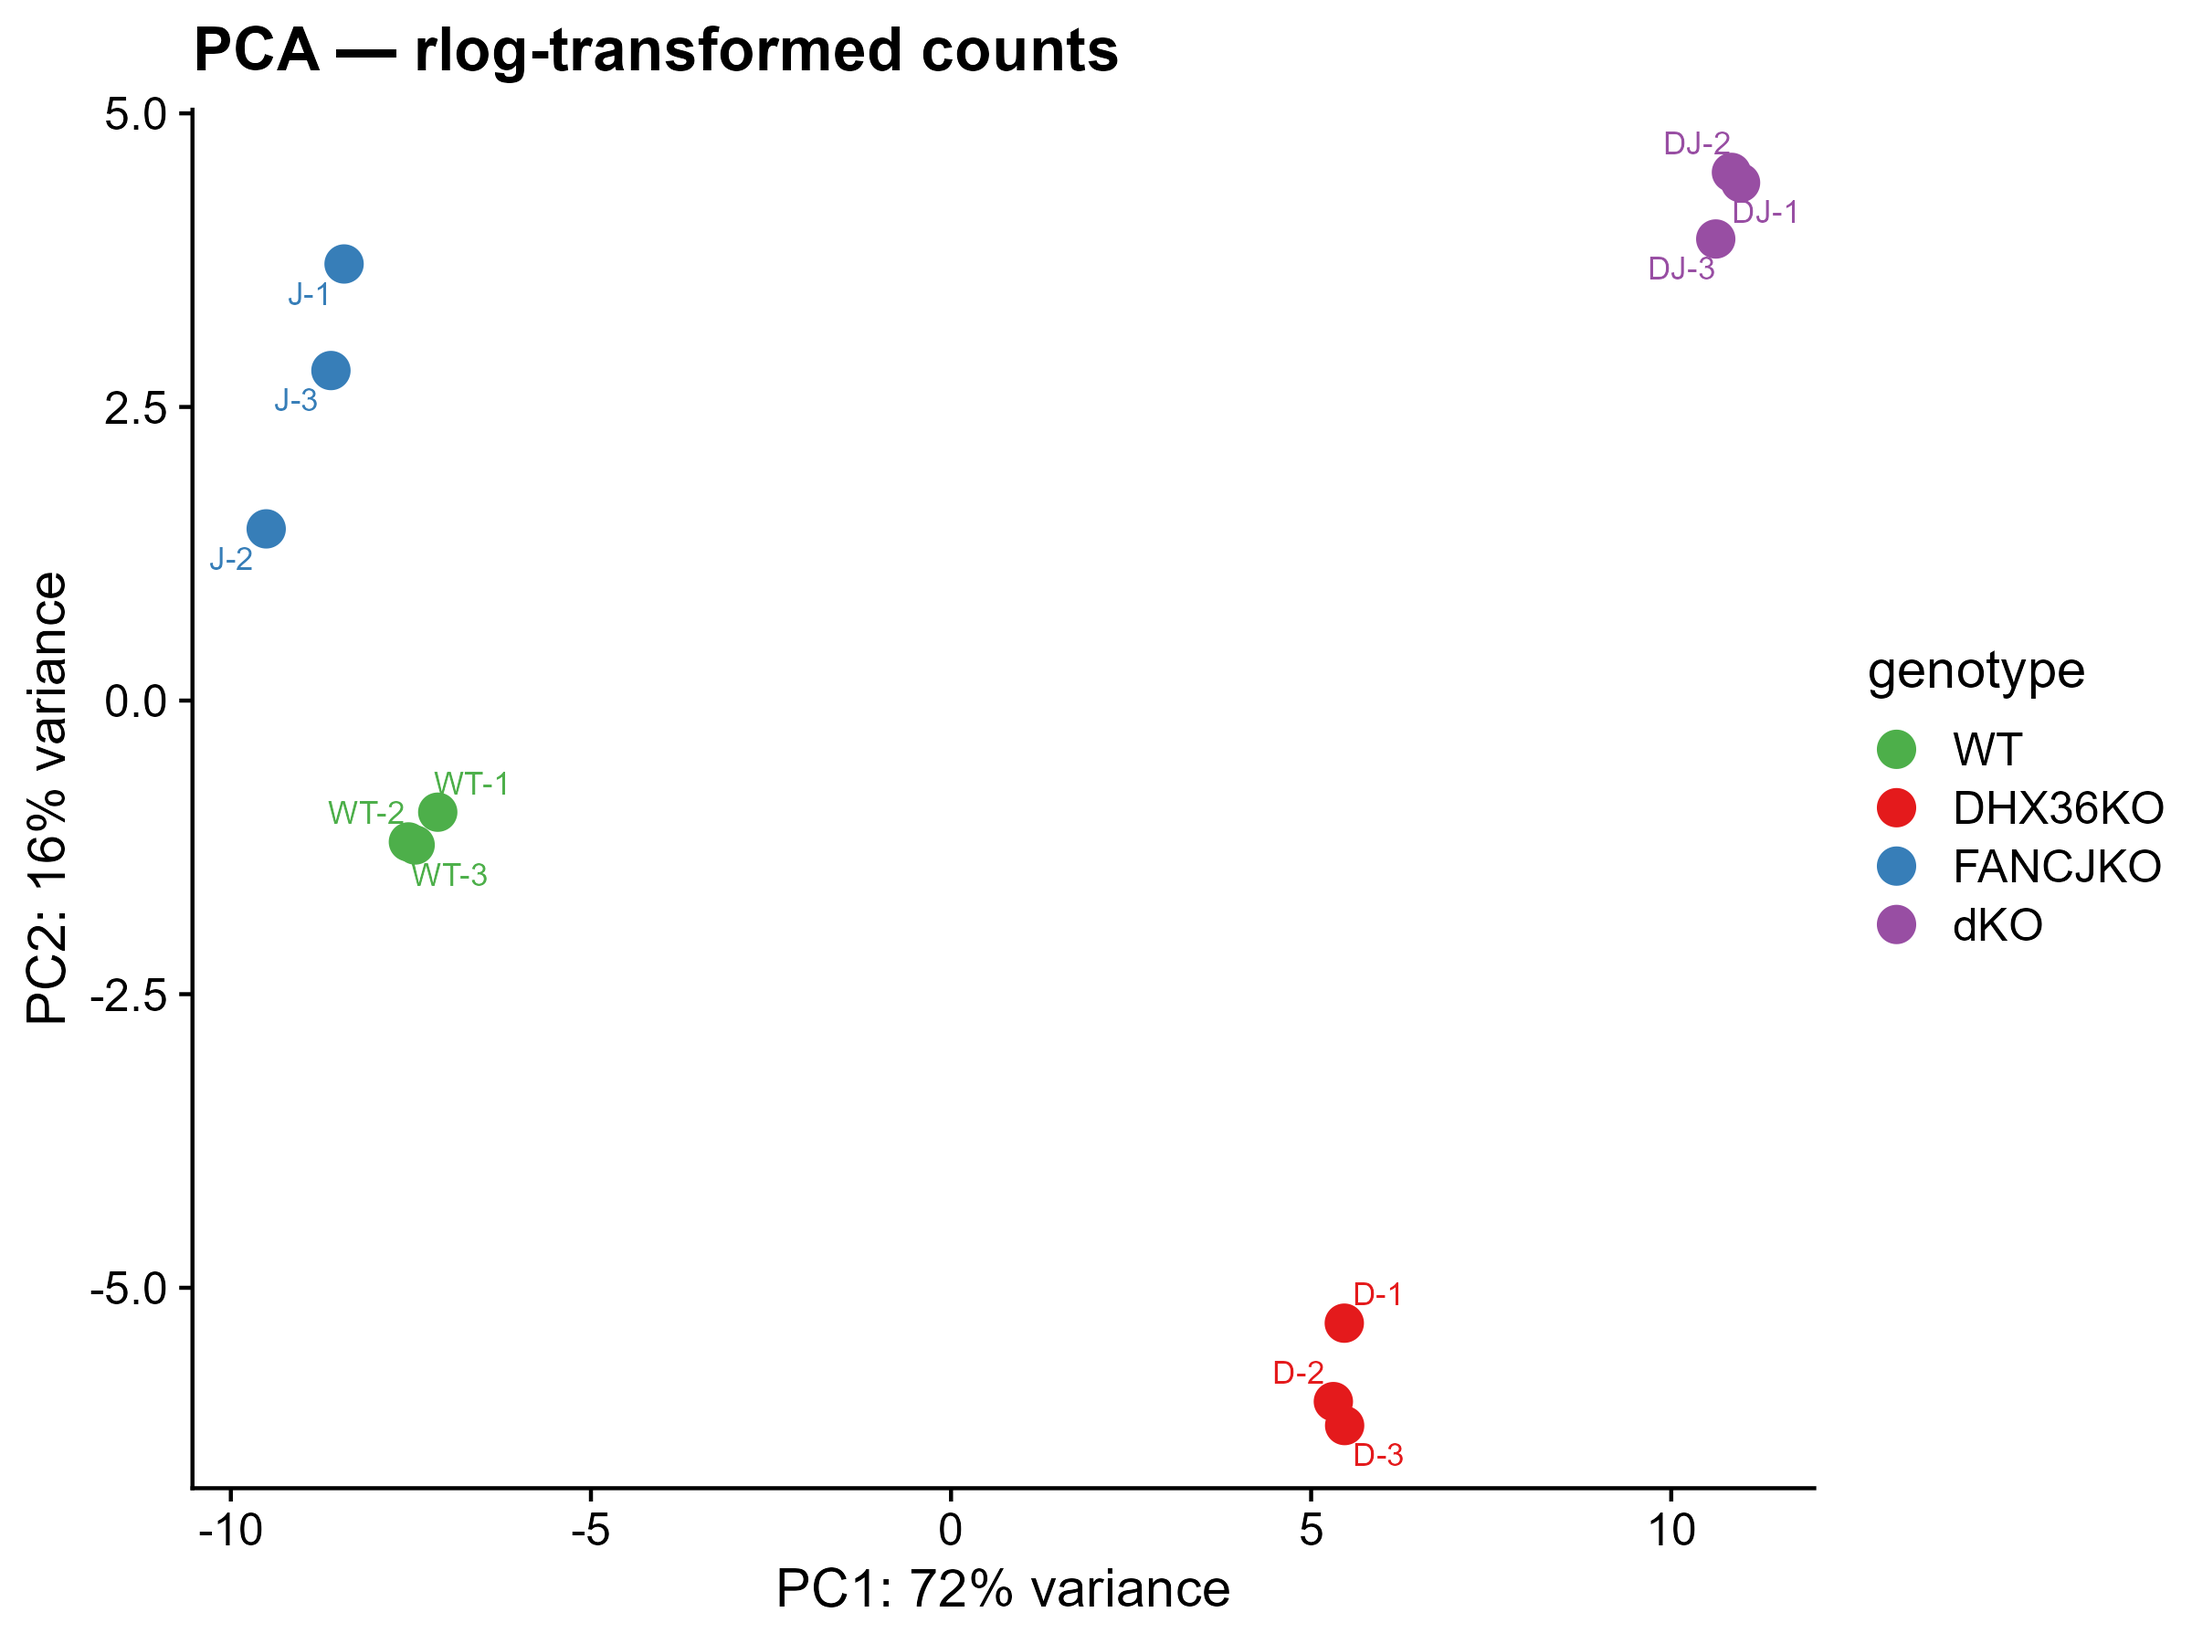
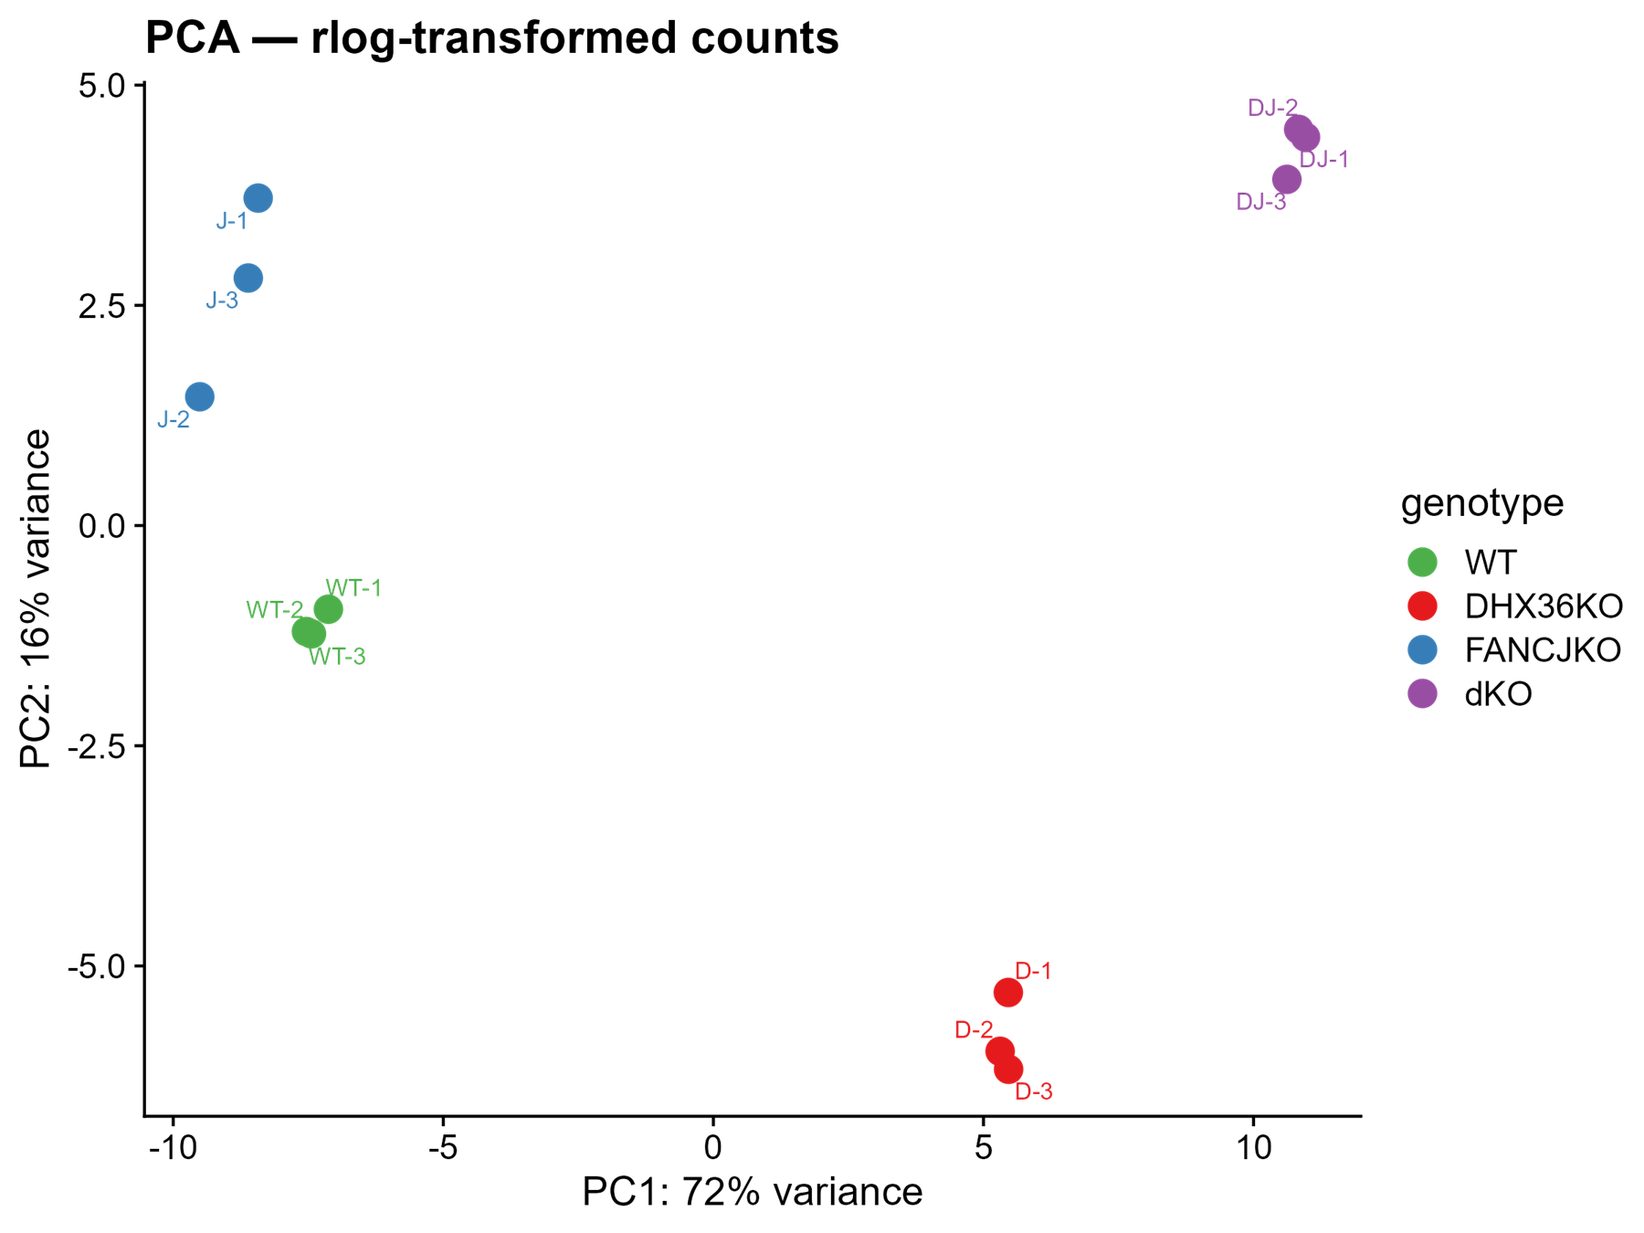
Curate showcase figures, add tf-new env, record ORCID
Figures: replace the twelve-figure sampler with six that carry the
argument — PCA, DHX36KO volcano, region metaprofiles across all
genotypes, permutation fold-enrichment, DEG TSS metaprofile, and the
topology-split TSS metaprofile — each with an interpretive caption.

Most of the pipeline's PNGs are written with a transparent background, so
axis labels and legends disappeared against GitHub's dark theme. The
README copies are now flattened onto white and downscaled to 1800 px;
the figures the workflow itself writes are untouched.

envs/tf_new.yaml: the TensorFlow environment for the DeepG4 rule was
documented but never defined, so a fresh clone could not build it.
TensorFlow is installed via pip because conda-forge has no win-64 build
of 2.13, matching the environment the results were produced in.

README: add a quickstart that takes a clone to every figure, with a table
of which inputs the download scripts fetch and which the workflow fetches
itself, plus explicit limits on what "reproducible" means here.

CITATION.cff / .zenodo.json: record ORCID 0000-0001-5942-6303.

diff --git a/README.md b/README.md
@@ -20,6 +20,51 @@ Snakemake rules, one configuration file, no hidden state.
 
 ---
 
+## Quickstart — from a fresh clone to every figure
+
+Nothing here assumes you already have the data. A clone contains no input files; the download
+scripts fetch them, and the workflow fetches the reference annotations itself.
+
+```bash
+git clone https://github.com/DJ-Goodall/G4_Promoter_Pipeline.git
+cd G4_Promoter_Pipeline
+
+# 1. software (once)
+Rscript envs/install_r_packages.R              # CRAN + Bioconductor + DeepG4
+conda create -n G4 -c conda-forge -c bioconda snakemake
+conda env create -f envs/g4sp.yaml             # G4ShapePredictor python (pinned)
+conda env create -f envs/tf_new.yaml           # optional: TensorFlow for DeepG4
+
+# 2. data (~3.4 GB from GEO; resumable, size-verified)
+scripts/download_data.sh                       # or .\scripts\download_data.ps1 on Windows
+
+# 3. run
+conda activate G4
+snakemake -n                                   # dry run: should report ~50 jobs, no missing inputs
+snakemake --cores 4                            # full run
+```
+
+What the download step provides, and what the workflow provides on its own:
+
+| Input | Where it comes from | Automatic? |
+|---|---|---|
+| 28 CUT&Tag bigWigs | GEO GSE269084, per-sample FTP | `download_data.*` |
+| RNA-seq count table | GEO GSE269081 | `download_data.*` (unpacked for you) |
+| G4ShapePredictor + its model pickles | GitHub clone into `external/` | `download_data.*` |
+| GENCODE vM25 GTF | EBI FTP | yes — rule `gene_biotype`, with mirror fallbacks |
+| mm10 RepeatMasker | UCSC | yes — rule `unclassified_peak_context`, 4 mirrors |
+| ENCODE SCREEN cCREs | ENCODE, UCSC REST fallback | yes — rule `build_enhancers` |
+| mm10 genome + transcript models | Bioconductor `BSgenome`/`TxDb` | `install_r_packages.R` |
+| G4 topology control set | committed in `data/` | already present |
+| Output directories | created on demand | yes |
+
+Caveats worth stating plainly: you get the **same figures and tables**, and the numbers are
+reproducible because every subsampling step has a fixed seed — but agreement to the last decimal
+depends on matching package versions (R 4.5.1 / Bioconductor 3.21 here). DeepG4 is the one fragile
+dependency and its failure costs a single figure. Peaks are recalled from the bigWigs rather than
+read from a deposited peak file, so peak counts are a genuine reproduction of the calling step, not
+a copy of it.
+
 ## Contents
 
 - [Biological system](#biological-system)
@@ -127,7 +172,9 @@ One rule per numbered script, all wired into a single `rule all` — see [`Snake
 ```
 G4_Promoter_Pipeline/
 ├── Snakefile                     # 51 rules + rule all; one rule per numbered script
-├── config/config.yaml            # every path, threshold and parameter
+├── config/
+│   ├── config.yaml               # every path, threshold and parameter
+│   └── config.local.example.yaml # template for pointing at data you already have
 ├── scripts/
 │   ├── _shared/helpers.R         # shared helper library (bigWig I/O, peak calling,
 │   │                             #   profiles, genotype/clone mapping, plot themes)
@@ -138,9 +185,10 @@ G4_Promoter_Pipeline/
 │   └── download_data.sh          # fetch inputs from GEO (Linux/macOS/WSL)
 ├── envs/
 │   ├── install_r_packages.R      # installs the CRAN/Bioconductor/GitHub R stack
-│   ├── r_g4.yaml                 # conda R env (Linux/WSL only — see Installation)
 │   ├── g4sp.yaml                 # G4ShapePredictor python env (pinned sklearn 1.0.2)
-│   └── deepg4.yaml               # DeepG4 / TensorFlow env (Linux/WSL only)
+│   ├── tf_new.yaml               # TensorFlow 2.13 for the DeepG4 rule (optional)
+│   ├── r_g4.yaml                 # conda R env (Linux/WSL only — see Installation)
+│   └── deepg4.yaml               # all-in-one DeepG4 env (Linux/WSL only)
 ├── data/
 │   ├── geo_manifest.tsv          # the 28 CUT&Tag samples: accession, size, metadata
 │   ├── known_topology_controls.tsv   # 11 literature-validated control G4s
@@ -260,10 +308,17 @@ decision-tree node dtype changed in 1.3. A newer scikit-learn cannot unpickle th
 rule silently falls back to the loop-length heuristic. Do not relax these pins — see the comments in
 [`envs/g4sp.yaml`](envs/g4sp.yaml).
 
-**4. TensorFlow for DeepG4** (optional, one rule): an env named `tf-new` with TensorFlow 2.13 /
-Keras 2.13 / python 3.8, reached through `reticulate`. Configured by `deepg4.reticulate_condaenv`.
-If DeepG4 or TensorFlow is unavailable, only the ROC sanity check (script `22`) is lost — the
-topology branch completes on pqsfinder + G4ShapePredictor.
+**4. TensorFlow for DeepG4** (optional, one rule):
+
+```bash
+conda env create -f envs/tf_new.yaml       # python 3.8 + TF 2.13 + keras 2.13, via pip
+```
+
+TensorFlow comes from pip inside this env because conda-forge has no win-64 build of 2.13. The
+DeepG4 R package lives in your system R library and reaches this env through `reticulate`
+(`deepg4.reticulate_condaenv`, default `tf-new`). If DeepG4 or TensorFlow is unavailable, only the
+ROC sanity check (script `22`, figure `08_topology/deepg4_roc`) is lost — the topology branch
+completes on pqsfinder + G4ShapePredictor.
 
 **On Linux/WSL** you can take the conda route for everything instead:
 
@@ -371,47 +426,59 @@ Key tables: `peak_summary.csv` (peak counts and widths per set), `region_fold_en
 
 ## Selected results
 
-Figures below are from the v1.0.0 run and live in [`docs/figures/`](docs/figures/).
+Six figures from the v1.0.0 run, in [`docs/figures/`](docs/figures/). Each is produced by the rule
+named beneath it; the full set (23 themes, PDF + PNG) is regenerated by running the workflow.
 
-### RNA-seq: genotypes separate, dKO carries the transcriptional phenotype
+### RNA-seq quality control and differential expression
 
-<img src="docs/figures/01_qc_pca_plot.png" width="48%"> <img src="docs/figures/02_deseq2_upset_DEGs.png" width="48%">
+<img src="docs/figures/01_qc_pca_plot.png" width="49%"> <img src="docs/figures/02_deseq2_volcano_DHX36KO_vs_WT.png" width="49%">
 
-PCA of regularised counts and the overlap of significant DEGs across the three KO-vs-WT contrasts
-(padj < 0.05, |log2FC| > 0.5). <img src="docs/figures/02_deseq2_volcano_dKO_vs_WT.png" width="48%">
+*Left:* PCA of regularised counts — replicates cluster and the four genotypes separate
+(`01_rnaseq_qc.R`). *Right:* DHX36KO vs WT, 16,981 genes tested, padj < 0.05 and |log2FC| > 0.5.
+`Dhx36` itself is among the most significantly down-regulated genes, confirming the knockout;
+the imprinted lncRNAs `H19` and `Meg3` drop sharply, while `Gadd45a`, `Trh`, `Dnmt3a` and `Otx2`
+rise (`03_deseq2_plots.R`, table `deseq2_results_DHX36KO_vs_WT.tsv`).
 
-### CUT&Tag: reproducible peaks strongly enriched at promoters, 5′ UTRs and enhancers
+### G4 occupancy is enriched at promoters, 5′ UTRs and enhancers — and rises in the knockouts
 
-<img src="docs/figures/04_peaks_01_peak_width_distribution.png" width="48%"> <img src="docs/figures/05_cuttag_violin_signal_G4_BG4.png" width="48%">
+<img src="docs/figures/06_regional_region_metaprofile.png" width="100%">
 
-The z-score caller yields ~105–114 k G4 peaks per genotype (mean ~0.9 kb; 147,843 in the union) and
-~156–162 k R-loop peaks. Permutation enrichment puts BG4 peaks **~12× over expectation in 5′ UTRs**,
-**~5.6× in distal enhancers** and **~2× at promoters**, while R-loop peaks are essentially unenriched
-at promoters (~1.0×) — and the ERCC1 control tracks reach only ~1.3× at promoters, confirming the
-signal is antibody-specific rather than an artefact of the calling procedure.
+Metaprofiles across all five region classes for both assays and all six genotypes
+(`14_region_metaprofiles.R`). BG4 signal peaks sharply at promoters, 5′ UTRs and — more weakly —
+first introns, and is flat across gene bodies. The genotype ordering is consistent and
+dose-dependent: **WT < FANCJKO < DHX36KO ≈ dKO**, i.e. losing the helicases raises steady-state G4
+occupancy at promoters rather than redistributing it. R-loop (S9.6) profiles show the same TSS
+architecture with a much weaker genotype effect.
 
-<img src="docs/figures/06_regional_02_region_fold_enrichment.png" width="60%">
+<img src="docs/figures/06_regional_region_fold_enrichment.png" width="100%">
 
-### Topology: promoter G4s are overwhelmingly parallel
+Permutation enrichment against random placement quantifies the same picture
+(`12_peak_region_enrichment.R`, table `region_fold_enrichment.tsv`): BG4 peaks are **~12× enriched
+in 5′ UTRs**, **~5.6× in distal enhancers** and **~2× at promoters**, whereas R-loop peaks are
+unenriched at promoters (~1.0×, ns). The ERCC1 control tracks reach only ~1.3× at promoters —
+the enrichment is antibody-specific, not an artefact of the peak caller.
 
-<img src="docs/figures/08_topology_topology_counts.png" width="48%"> <img src="docs/figures/08_topology_deepg4_roc.png" width="48%">
+### Gain of promoter G4 signal tracks with expression change
 
-Combining pqsfinder with G4ShapePredictor at 0.80 precision assigns, in WT, **72.9 % parallel**,
-10.0 % hybrid, 7.9 % antiparallel and 9.1 % of peaks with no canonical PQS — a composition that
-barely shifts across genotypes (`topology_composition.csv`). DeepG4 scores peaks above GC-matched
-background with AUROC 0.56 (`sanity_metrics.csv`), an independent but deliberately weak sanity
-check rather than a classifier.
+<img src="docs/figures/07_integration_tss_profile_BG4_dKO_vs_WT.png" width="100%">
 
-### Integration, G4 × R-loop coupling, and multi-G4 promoters
+BG4 signal ±5 kb around the TSS of the top 500 up- and down-regulated genes, WT versus dKO
+(`16_integration_tss_profiles.R`). Absolute signal roughly doubles in the double knockout, and the
+directional split inverts across the TSS: up-regulated genes carry the higher peak downstream of
+the TSS, down-regulated genes upstream.
 
-<img src="docs/figures/07_integration_promoter_signal_boxplot_dKO_vs_WT.png" width="48%"> <img src="docs/figures/18_g4_rloop_correlation_g4_vs_rloop_correlation_summary.png" width="48%">
+### Topology-resolved TSS metaprofiles
 
-<img src="docs/figures/20_motif_distributions_motifs_per_peak.png" width="48%"> <img src="docs/figures/22_strand_strand_bias_comprehensive.png" width="48%">
+<img src="docs/figures/10_metaprofiles_tss_signal_by_topology.png" width="100%">
 
-Counting **every** PQS per peak rather than only the top-scoring one shows that 73 % of peaks carry
-≥ 2 distinct G4 loci (`motif_count_distribution.csv`), which is why Stage K repeats the promoter
-analyses at motif resolution. G4Hunter strand asymmetry at promoters and 5′ UTRs is symmetric within
-noise across all genotypes and both window sizes (`strand_bias_summary.tsv`).
+Promoters grouped by the topology of their strongest overlapping G4 peak
+(`24_tss_metaprofiles.R`). All three quadruplex classes give a sharp TSS peak — highest for
+**hybrid (3+1)**, then parallel (4+0), then antiparallel (2+2) — while promoters with no called G4
+peak are flat, an internal negative control. The helicase-loss ordering
+(WT < FANCJKO < DHX36KO ≈ dKO) holds within every topology class, so the KO effect is on occupancy
+magnitude rather than on which topology is present. Composition itself barely moves across
+genotypes: 72.9 % parallel, 10.0 % hybrid, 7.9 % antiparallel and 9.1 % without a canonical PQS in
+WT (`topology_composition.csv`).
 
 ---
 
